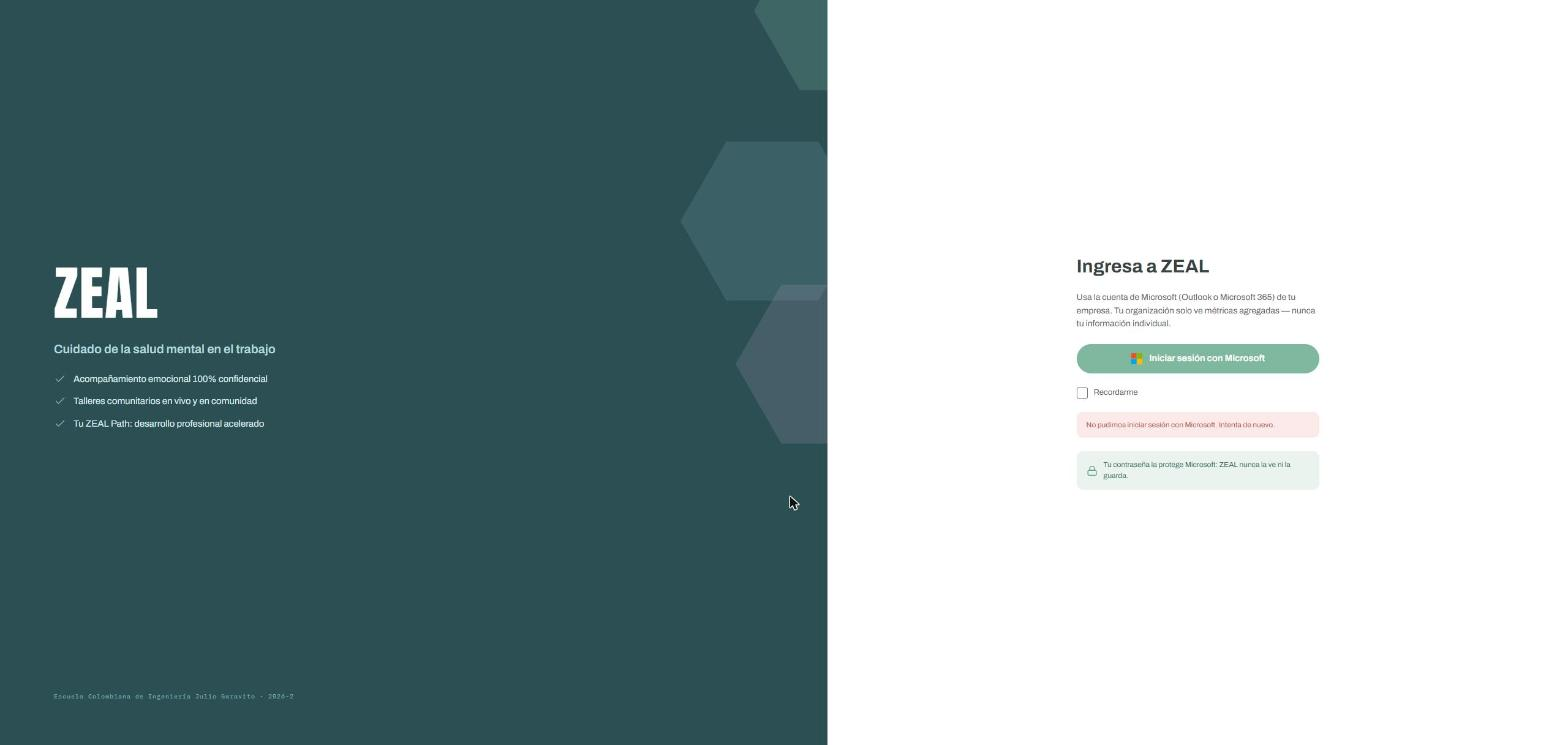
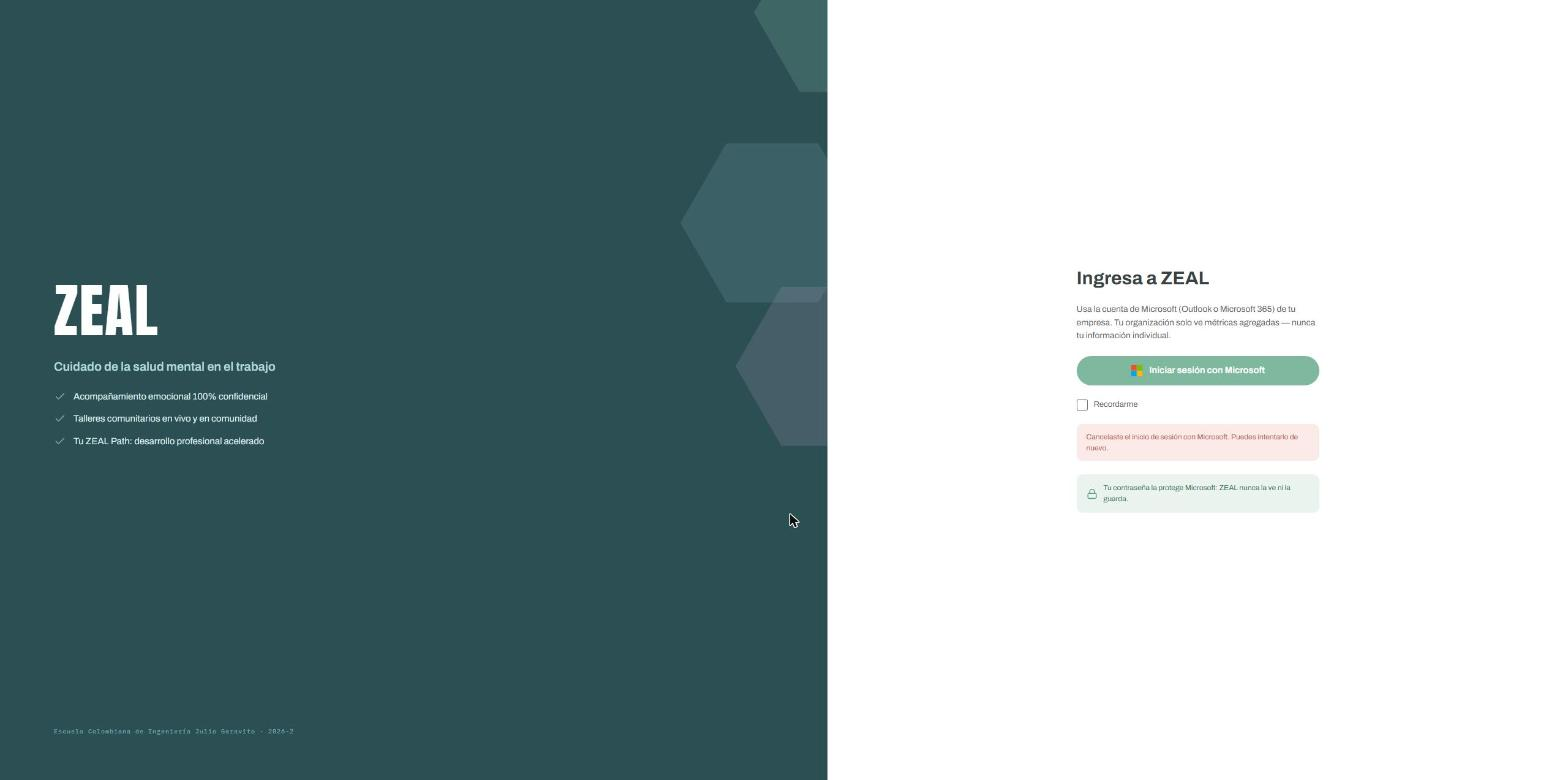
docs(seguridad): SEG-2 cancelar vuelve con error=cancelado tras la corrección del backend (HU-FE-21)
Se repitió el caso de cancelar en producción después de desplegar
wellbeing #8: ahora vuelve a /login?error=cancelado. Se conserva la
captura anterior como referencia.

diff --git a/docs/evidencias/seg2/README.md b/docs/evidencias/seg2/README.md
@@ -2,15 +2,16 @@
 
 Prueba manual de SEG-2 (autenticación) sobre el despliegue real
 (`https://zeal-610558.trafficmanager.net`), con el login real de Microsoft Entra ID (tenant de la
-Escuela), el 17 de noviembre de 2026 entre las 02:00 y las 02:15 UTC. Complementa las pruebas
+Escuela), el 17 de noviembre de 2026 entre las 02:00 y las 02:15 UTC; el caso 2 se repitió a las
+02:47 UTC tras la corrección del backend. Complementa las pruebas
 automatizadas de `zeal-infra-compose/docs/evidencias/SEG.md`, que usan el proveedor de login de
 pruebas y no se pueden repetir contra Microsoft.
 
-| Caso                                  | Qué se hizo                                                             | Resultado                                                                                                                                                 | Estado              |
-| ------------------------------------- | ----------------------------------------------------------------------- | --------------------------------------------------------------------------------------------------------------------------------------------------------- | ------------------- |
-| 1. Cuenta registrada entra            | Cerrar sesión y entrar de cero con "Iniciar sesión con Microsoft"       | Vuelve a su agenda (`/psicologo/agenda`). Callback en **0,35 s** en el servidor (meta ≤ 1 s); 1,18 s desde que Microsoft devuelve hasta la agenda cargada | ✅ Cumple           |
-| 2. Cancelar en Microsoft              | "Cancelar" en la pantalla de permisos de Microsoft                      | No se crea sesión; vuelve al login con un mensaje genérico (`/login?error=fallo`)                                                                         | ⚠ Mensaje genérico |
-| 3. Cuenta de la Escuela no registrada | Entrar con la cuenta de una persona de otra carrera que no está en ZEAL | No se crea sesión; `/login?error=cuenta_no_registrada` con "Esa cuenta de Microsoft no tiene acceso a ZEAL…", sin decir qué cuentas existen               | ✅ Cumple           |
+| Caso                                  | Qué se hizo                                                             | Resultado                                                                                                                                                 | Estado    |
+| ------------------------------------- | ----------------------------------------------------------------------- | --------------------------------------------------------------------------------------------------------------------------------------------------------- | --------- |
+| 1. Cuenta registrada entra            | Cerrar sesión y entrar de cero con "Iniciar sesión con Microsoft"       | Vuelve a su agenda (`/psicologo/agenda`). Callback en **0,35 s** en el servidor (meta ≤ 1 s); 1,18 s desde que Microsoft devuelve hasta la agenda cargada | ✅ Cumple |
+| 2. Cancelar en Microsoft              | "Cancelar" en la pantalla de permisos de Microsoft                      | No se crea sesión; vuelve a `/login?error=cancelado` con "Cancelaste el inicio de sesión con Microsoft" (corregido en el backend, ver abajo)              | ✅ Cumple |
+| 3. Cuenta de la Escuela no registrada | Entrar con la cuenta de una persona de otra carrera que no está en ZEAL | No se crea sesión; `/login?error=cuenta_no_registrada` con "Esa cuenta de Microsoft no tiene acceso a ZEAL…", sin decir qué cuentas existen               | ✅ Cumple |
 
 Después de los casos 1 y 3 se revisó que ningún token quedara en `localStorage` ni en
 `sessionStorage`: el access token vive solo en memoria y la renovación usa la cookie `HttpOnly` del
@@ -18,12 +19,12 @@ backend.
 
 ## Capturas
 
-| Caso                    | Captura                                                                                     |
-| ----------------------- | ------------------------------------------------------------------------------------------- |
-| Página de inicio        | [01-login.jpg](01-login.jpg)                                                                |
-| 1. Cuenta registrada    | [02-cuenta-registrada-entra.jpg](02-cuenta-registrada-entra.jpg)                            |
-| 2. Permisos y cancelar  | [03-microsoft-permisos.jpg](03-microsoft-permisos.jpg) → [04-cancelar.jpg](04-cancelar.jpg) |
-| 3. Cuenta no registrada | [05-cuenta-no-registrada.jpg](05-cuenta-no-registrada.jpg)                                  |
+| Caso                    | Captura                                                                                                                                                              |
+| ----------------------- | -------------------------------------------------------------------------------------------------------------------------------------------------------------------- |
+| Página de inicio        | [01-login.jpg](01-login.jpg)                                                                                                                                         |
+| 1. Cuenta registrada    | [02-cuenta-registrada-entra.jpg](02-cuenta-registrada-entra.jpg)                                                                                                     |
+| 2. Permisos y cancelar  | [03-microsoft-permisos.jpg](03-microsoft-permisos.jpg) → [04-cancelar.jpg](04-cancelar.jpg) (antes de la corrección: [04-cancelar-antes.jpg](04-cancelar-antes.jpg)) |
+| 3. Cuenta no registrada | [05-cuenta-no-registrada.jpg](05-cuenta-no-registrada.jpg)                                                                                                           |
 
 ## Auditoría y métricas en producción
 
@@ -32,22 +33,27 @@ con hora, IP y `correlationId`, y **sin el correo** de la cuenta:
 
 ```text
 02:05:18Z event=LOGIN_MICROSOFT outcome=EXITO    userId=usr-psicologo-… correlationId=c64441581baa…  (caso 1)
-02:07:18Z event=LOGIN_MICROSOFT outcome=DENEGADO userId=null           correlationId=4628711460bb…  detail="proveedor:consent_required"  (caso 2)
+02:07:18Z event=LOGIN_MICROSOFT outcome=DENEGADO userId=null           correlationId=4628711460bb…  detail="proveedor:consent_required"  (caso 2, antes)
 02:14:10Z event=LOGIN_MICROSOFT outcome=DENEGADO userId=null           correlationId=d9f565c8cc9a…  detail="cuenta_no_registrada"        (caso 3)
+02:46:50Z event=LOGIN_MICROSOFT outcome=FALLO    userId=null           correlationId=1edbc7f16d52…  detail="proveedor:consent_required"  (caso 2, después)
 ```
 
 En Prometheus, `http_server_requests_seconds_max{uri="/api/auth/microsoft/callback"}` marcó como máximo
 0,35 s, y `zeal_business_logins_total` sumó el inicio de sesión del caso 1 (alimenta el panel de
 sesiones iniciadas del tablero de Negocio).
 
-## Hallazgo del caso 2
+## Hallazgo del caso 2 (corregido)
 
 Al cancelar en la pantalla de permisos, Microsoft Entra ID no devuelve `error=access_denied` (lo que
-asume el contrato `auth-microsoft.md`), sino `error=consent_required` con `AADSTS65004` ("User declined
-to consent"). El callback solo traduce `access_denied` a `/login?error=cancelado`, así que este caso
-termina en `error=fallo` y la persona ve "No pudimos iniciar sesión con Microsoft" en lugar de
-"Cancelaste el inicio de sesión". La seguridad no cambia (no hay sesión y el mensaje no revela nada);
-el ajuste es del backend: tratar también `consent_required` como cancelado.
+asumía el contrato `auth-microsoft.md`), sino `error=consent_required` con `AADSTS65004` ("User declined
+to consent"). En la primera prueba (02:07 UTC) el callback solo traducía `access_denied` a
+`/login?error=cancelado`, así que este caso terminaba en `error=fallo` y la persona veía "No pudimos
+iniciar sesión con Microsoft". La seguridad no cambiaba (no había sesión y el mensaje no revelaba nada).
+
+Se corrigió en `zeal-wellbeing-service` #8 (`access_denied` y `consent_required` → `cancelado`, con
+pruebas para los dos códigos y para otro error del proveedor → `fallo`) y en el contrato
+(`zeal-infra-compose` #12). Tras desplegar wellbeing en las dos máquinas, el caso 2 se repitió a las
+02:47 UTC y volvió a `/login?error=cancelado`.
 
 ## Cómo se hizo
 
